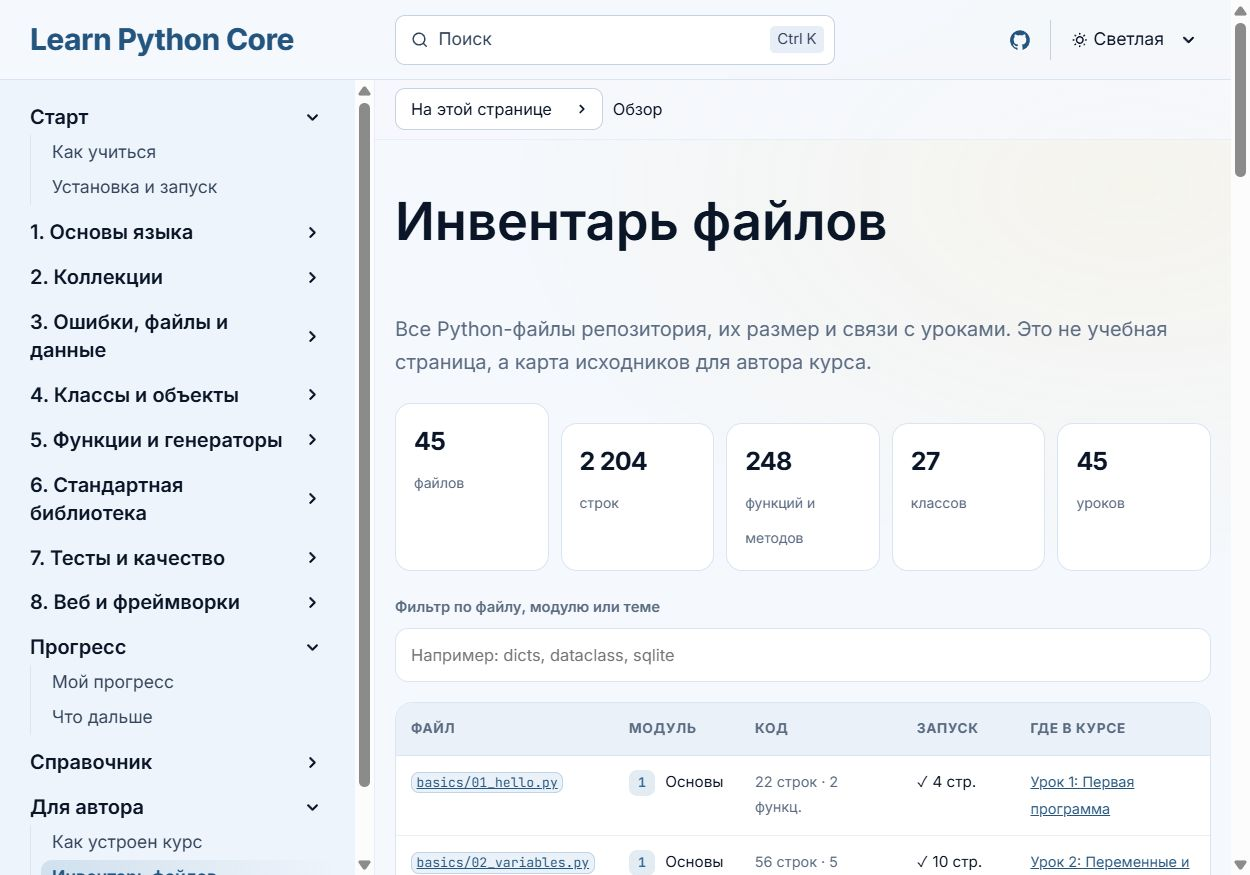
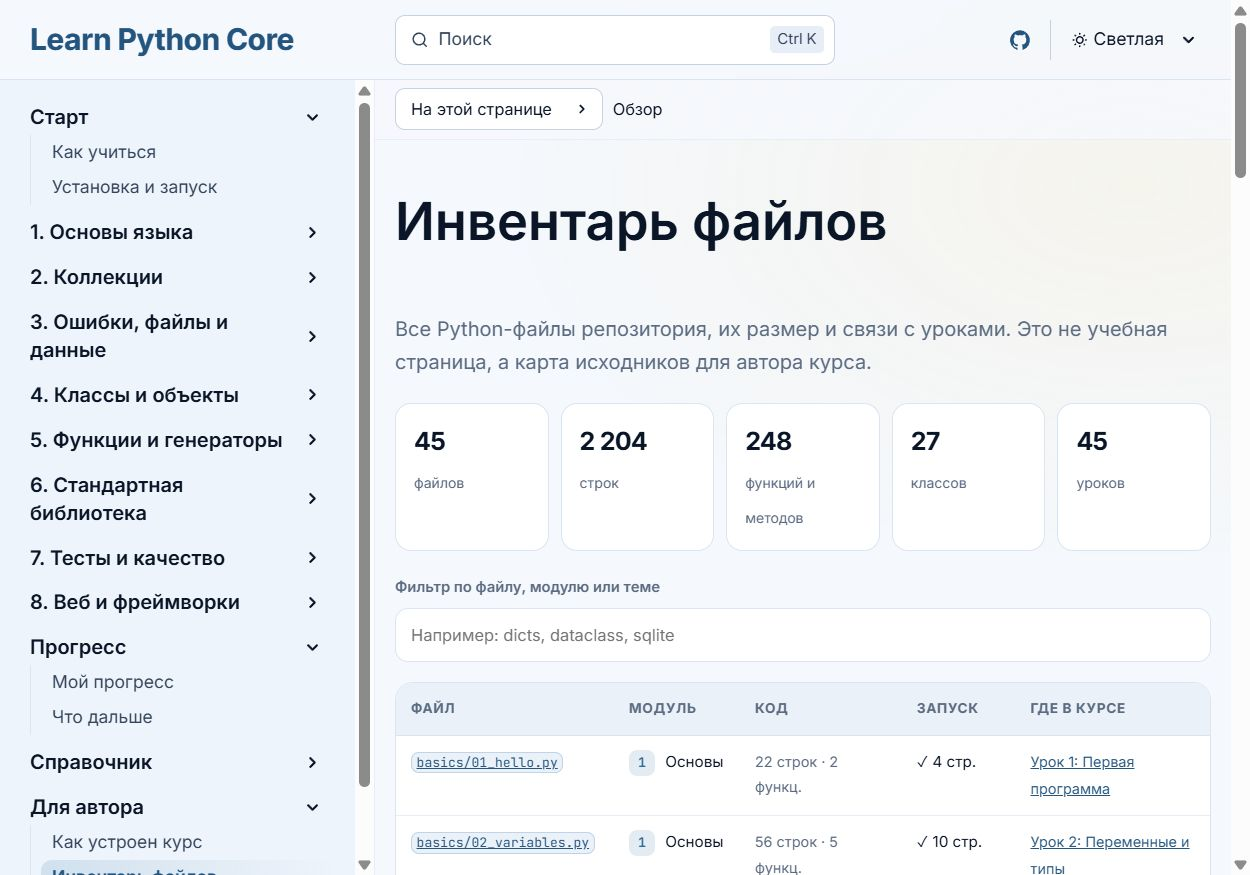
fix: real FastAPI/Pydantic output, async Pyodide practice, and layout QA

diff --git a/site/src/styles/custom.css b/site/src/styles/custom.css
@@ -186,6 +186,7 @@ header.header div:has(> select) {
   padding: 0.1em 0.35em;
   font-size: 0.86em;
   font-weight: 500;
+  overflow-wrap: anywhere;
 }
 
 .content-panel {
@@ -332,6 +333,7 @@ header.header div:has(> select) {
   gap: clamp(2rem, 4vw, 4.5rem);
   align-items: center;
   padding: clamp(3rem, 7vw, 6rem) 0 clamp(2.5rem, 5vw, 4rem);
+  overflow: clip;
 }
 
 .course-hero::before {
@@ -473,15 +475,48 @@ header.header div:has(> select) {
 .hero-code-dots,
 .practice-editor-dots {
   display: inline-flex;
+  align-items: center;
   gap: 0.32rem;
+  line-height: 1;
 }
 
 .hero-code-dots i,
 .practice-editor-dots i {
+  display: block;
+  flex: 0 0 auto;
   width: 0.5rem;
   height: 0.5rem;
+  margin: 0 !important;
   border-radius: 999px;
   background: #ff5f57;
+}
+
+/*
+ * Starlight добавляет margin-top соседним элементам внутри .sl-markdown-content.
+ * Внутри flex/grid-контейнеров это сдвигает кнопки, точки и карточки
+ * относительно друг друга. Для собственных сеток курса margin не нужен.
+ */
+.hero-actions > *,
+.hero-badges > *,
+.hero-code-caption > *,
+.lesson-actions > *,
+.lesson-nav > *,
+.module-nav > *,
+.quiz-actions > *,
+.progress-buttons > *,
+.practice-actions > *,
+.practice-header > *,
+.lesson-source-head > *,
+.source-toc > *,
+.module-grid > *,
+.lesson-loop > *,
+.home-principles > *,
+.lesson-list > *,
+.start-cards > *,
+.inventory-stats > *,
+.practice-details-grid > * {
+  margin-top: 0 !important;
+  margin-bottom: 0 !important;
 }
 
 .hero-code-dots i:nth-child(2),
@@ -1388,8 +1423,10 @@ header.header div:has(> select) {
 .progress-toggle {
   display: inline-flex;
   align-items: center;
+  justify-content: center;
   gap: 0.5rem;
-  padding: 0.55rem 0.85rem;
+  min-height: 2.65rem;
+  padding: 0.55rem 0.95rem;
   border: 1px solid var(--course-border);
   border-radius: 999px;
   background: var(--course-card);
@@ -1706,8 +1743,9 @@ header.header div:has(> select) {
 }
 
 /*
- * CodeMirror считает высоту gutter-элементов по дефолтной высоте 14px,
- * а строки кода у нас 1.65em. Выравниваем номера по той же высоте.
+ * Перенос строк отключён: длинные строки скроллятся по горизонтали, поэтому
+ * каждая логическая строка занимает ровно 1.65em. Выравниваем по этой высоте
+ * и gutter — иначе CodeMirror использует дефолтные 14px и номера уезжают.
  */
 .practice-codemirror .cm-lineNumbers .cm-gutterElement:not([style*='visibility: hidden']) {
   height: 1.65em !important;
@@ -2011,6 +2049,12 @@ header.header div:has(> select) {
 
 .quiz-option:hover {
   border-color: color-mix(in srgb, var(--course-accent) 35%, var(--course-border));
+}
+
+.quiz-option:has(input:focus-visible) {
+  outline: 2px solid var(--course-accent);
+  outline-offset: 2px;
+  border-color: var(--course-accent);
 }
 
 .quiz-option input {
@@ -2552,6 +2596,32 @@ header.header div:has(> select) {
   .practice-codemirror .cm-editor {
     height: 15rem;
     font-size: 0.78rem;
+  }
+
+  .lesson-actions {
+    align-items: stretch;
+  }
+
+  .lesson-actions > * {
+    flex: 1 1 100%;
+  }
+
+  /* На узком экране оставляем только файл и привязку к уроку. */
+  .inventory-table th:nth-child(2),
+  .inventory-table td:nth-child(2),
+  .inventory-table th:nth-child(3),
+  .inventory-table td:nth-child(3),
+  .inventory-table th:nth-child(4),
+  .inventory-table td:nth-child(4) {
+    display: none;
+  }
+
+  .inventory-table th:nth-child(1) {
+    width: 44%;
+  }
+
+  .inventory-table th:nth-child(5) {
+    width: 56%;
   }
 
   .hero-actions .course-btn {

diff --git a/site/src/scripts/practice.js b/site/src/scripts/practice.js
@@ -180,16 +180,22 @@ const PYODIDE_VERSION = '0.27.7';
 const PYODIDE_INDEX = `https://cdn.jsdelivr.net/pyodide/v${PYODIDE_VERSION}/full/`;
 
 const PYTHON_RUNNER = `
-import io, json, traceback, contextlib
+import io, json, traceback, contextlib, ast, inspect
 
-def __run(code, tests_json):
+async def __exec(code, namespace, filename):
+    compiled = compile(code, filename, "exec", flags=ast.PyCF_ALLOW_TOP_LEVEL_AWAIT)
+    result = eval(compiled, namespace)
+    if inspect.isawaitable(result):
+        await result
+
+async def __run(code, tests_json):
     tests = json.loads(tests_json)
     namespace = {"__name__": "__main__"}
     buffer = io.StringIO()
     error = None
     try:
         with contextlib.redirect_stdout(buffer):
-            exec(compile(code, "<practice>", "exec"), namespace)
+            await __exec(code, namespace, "<practice>")
     except BaseException:
         error = traceback.format_exc()
     output = buffer.getvalue()
@@ -199,7 +205,7 @@ def __run(code, tests_json):
     if error is None:
         for test in tests:
             try:
-                exec(compile(test, "<test>", "exec"), namespace)
+                await __exec(test, namespace, "<test>")
                 results.append({"ok": True, "test": test, "message": ""})
             except AssertionError as exc:
                 results.append({"ok": False, "test": test, "message": str(exc) or "assert не прошёл"})
@@ -207,7 +213,7 @@ def __run(code, tests_json):
                 results.append({"ok": False, "test": test, "message": type(exc).__name__ + ": " + str(exc)})
     return json.dumps({"output": output, "error": error, "results": results}, ensure_ascii=False)
 
-__run(__user_code, __tests_json)
+await __run(__user_code, __tests_json)
 `;
 
 const WORKER_SOURCE = `
@@ -223,7 +229,7 @@ self.onmessage = async (event) => {
     }
     self.pyodide.globals.set('__user_code', code);
     self.pyodide.globals.set('__tests_json', JSON.stringify(tests));
-    const raw = self.pyodide.runPython(RUNNER);
+    const raw = await self.pyodide.runPythonAsync(RUNNER);
     self.postMessage({ id, type: 'result', payload: JSON.parse(raw) });
   } catch (error) {
     self.postMessage({
@@ -533,7 +539,6 @@ async function initCard(card) {
         highlightActiveLine(),
         highlightSelectionMatches(),
         python(),
-        EditorView.lineWrapping,
         practiceTheme,
         // Клик по коду должен сразу начинать выделение, а не попадать
         // в открытый попап автодополнения.

diff --git a/src/python/testing/01_environment.py b/src/python/testing/01_environment.py
@@ -19,8 +19,8 @@ def describe_environment() -> None:
     print("текущая папка:", Path.cwd().name)
 
 
-def check_version(minimum: tuple[int, int] = (3, 10)) -> bool:
-    """Курс рассчитан на Python 3.10+."""
+def check_version(minimum: tuple[int, int] = (3, 11)) -> bool:
+    """Курс рассчитан на Python 3.11+."""
     return sys.version_info[:2] >= minimum
 
 
@@ -28,7 +28,7 @@ def main() -> None:
     describe_interpreter()
     describe_environment()
     if not check_version():
-        print("Обновите Python: нужен 3.10 или новее")
+        print("Обновите Python: нужен 3.11 или новее")
     else:
         print("версия подходит для курса")
 

diff --git a/src/python/web/05_async.py b/src/python/web/05_async.py
@@ -17,7 +17,7 @@ async def fetch_all(ids: list[int]) -> list[dict[str, object]]:
 async def with_timeout(coro, seconds: float):
     try:
         return await asyncio.wait_for(coro, timeout=seconds)
-    except TimeoutError:
+    except asyncio.TimeoutError:
         return {"error": "timeout"}
 
 

diff --git a/README.md b/README.md
@@ -35,7 +35,7 @@
 
 ### Только Python
 
-Нужен Python 3.10+ (проверено на 3.12+). Все примеры используют стандартную библиотеку.
+Нужен Python 3.11+ (проверено на 3.12+). Большинство примеров используют только стандартную библиотеку; для модулей 7–8 нужны `pytest`, `fastapi` и `pydantic` — они ставятся через `pip`.
 
 ```bash
 py src/python/basics/01_hello.py
@@ -76,7 +76,7 @@ npm run preview
 ### PyCharm Community
 
 1. **Open** → папка `learn-python-core`.
-2. Выберите интерпретатор Python 3.10+.
+2. Выберите интерпретатор Python 3.11+.
 3. Запускайте файл зелёной стрелкой.
 
 ### IntelliJ IDEA
